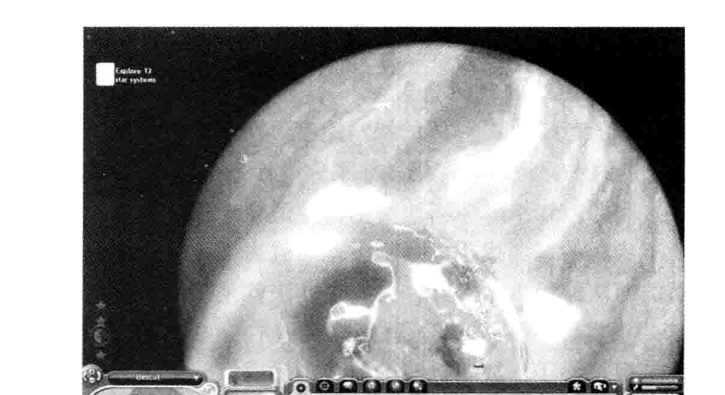
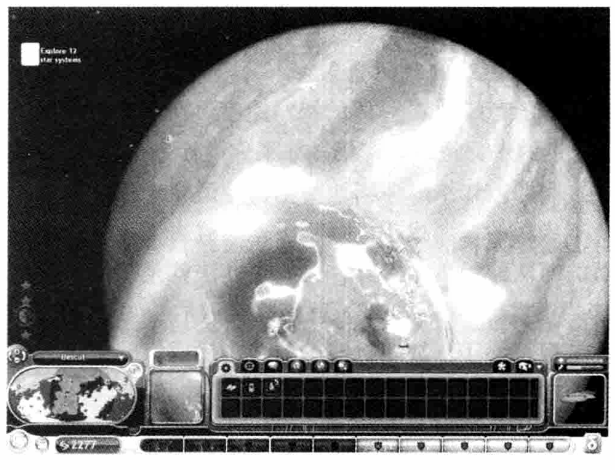
Recrop chapter 8 figures 8-5 to 8-7

diff --git a/scripts/crop_chapter08_figures.py b/scripts/crop_chapter08_figures.py
@@ -12,9 +12,9 @@ crops = [
     ("pdf_140.png", "figure-8-2-starcraft-terrain.png", (70, 410, 535, 720)),
     ("pdf_140.png", "figure-8-3-need-for-speed-most-wanted-3d.png", (565, 405, 1110, 735)),
     ("pdf_140.png", "figure-8-4-legacy-of-kain-material-spectral.png", (710, 805, 1138, 1325)),
-    ("pdf_142.png", "figure-8-5-age-of-empires-scale.png", (585, 190, 1125, 510)),
-    ("pdf_143.png", "figure-8-6-spore-sphere-world.png", (245, 480, 970, 875)),
-    ("pdf_145.png", "figure-8-7-settlers-irregular-time.png", (210, 185, 940, 590)),
+    ("pdf_142.png", "figure-8-5-age-of-empires-scale.png", (590, 190, 1125, 550)),
+    ("pdf_143.png", "figure-8-6-spore-sphere-world.png", (320, 500, 935, 970)),
+    ("pdf_145.png", "figure-8-7-settlers-irregular-time.png", (325, 220, 935, 705)),
     ("pdf_146.png", "figure-8-8-cleopatra-cultural-background.png", (245, 890, 920, 1305)),
     ("pdf_147.png", "figure-8-9-grim-fandango-style.png", (300, 775, 890, 1210)),
     ("pdf_148.png", "figure-8-10-spec-ops-sandstorm-dubai.png", (245, 825, 865, 1125)),
